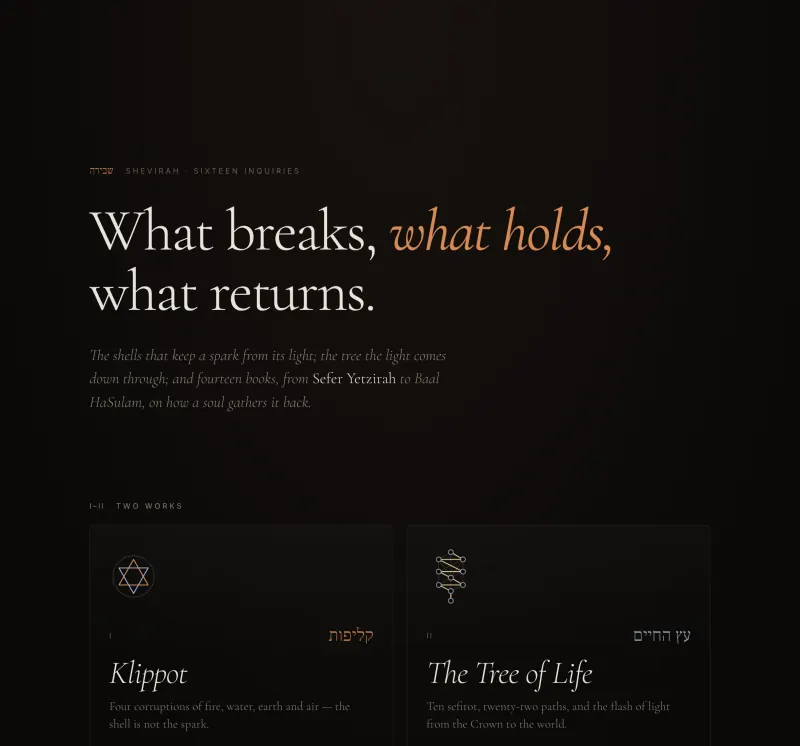
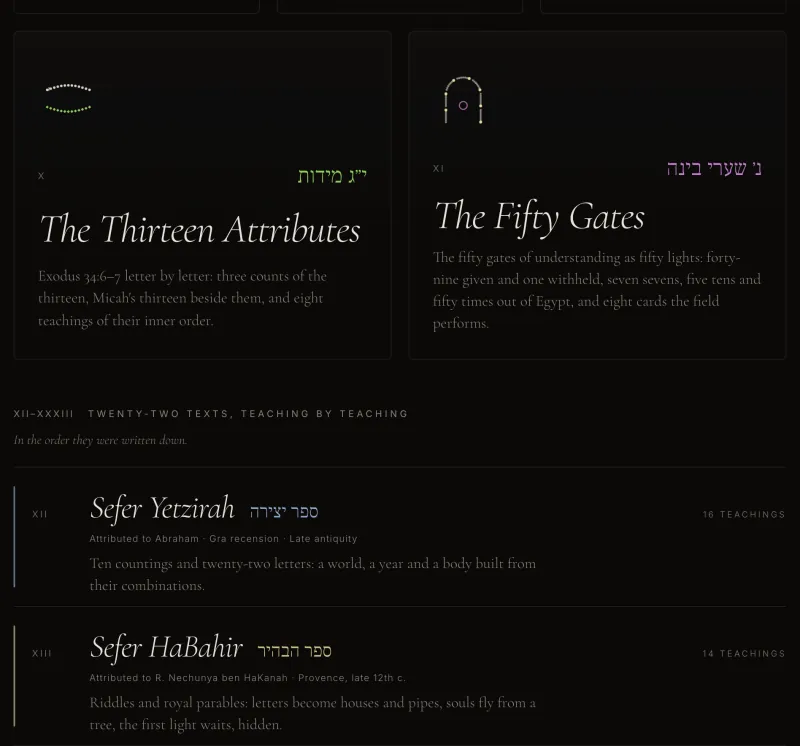
Shevirah: bring the showcase up to the 33-piece site (#41)
The section described the old two-work, fourteen-text Shevirah on
kelipot.vercel.app. It now matches the live site at
kelipot.quentin.software: eleven works and twenty-two texts (463 teaching
pages), The Four Shells and The Ten Sefirot under their new names, Next 16
and React 19 on Vercel rather than a static GitHub Pages export.

- Copy, JSON-LD (CreativeWork) and the llms.txt entry rewritten from
  shevirah's app/series.ts, README and the live sitemap.
- All six screenshots retaken from the live site: the hub (works and
  text shelf), The Four Shells, The Ten Sefirot, Taryag, the 231 Gates and
  a Sefat Emet teaching. Same sizes and WebP pair as before; the hub's
  height attribute now matches the file (1306).

diff --git a/pages/index.tsx b/pages/index.tsx
@@ -44,7 +44,7 @@ const NowPatterns = dynamic(() => import("@/components/Insights").then((m) => m.
 
 // ── SEO ───────────────────────────────────────────────────────────────────
 const SITE_URL = "https://moshemalka.com";
-const SHEVIRAH = "https://kelipot.vercel.app/";
+const SHEVIRAH = "https://kelipot.quentin.software/";
 
 const SEO = {
   title: "Moshe Malka — Founder & principal engineer, Quentin.Code",
@@ -149,10 +149,10 @@ const STRUCTURED_DATA = {
       "@type": "CreativeWork",
       "@id": `${SHEVIRAH}#work`,
       name: "Shevirah",
-      alternateName: "Shevirah — Sixteen Inquiries",
+      alternateName: "Shevirah — Thirty-three Inquiries",
       url: SHEVIRAH,
       description:
-        "An interactive web series on Kabbalah: two works, Klippot and the Tree of Life, and fourteen classic texts read teaching by teaching, each with its own animated artwork.",
+        "An interactive web series on Kabbalah: eleven works, among them The Four Shells, The Ten Sefirot and Taryag, each drawn on one canvas, and twenty-two classic texts read teaching by teaching, each teaching with its own animated artwork.",
       about: "Kabbalah",
       inLanguage: "en",
       author: { "@id": `${SITE_URL}/#person` },
@@ -467,42 +467,43 @@ function OpenSource() {
 
 /* ── Shevirah ──────────────────────────────────────────────────────── */
 
-// Screenshots from the live site, artworks engaged (hover state).
+// Screenshots from the live site (2026-11-13): each work with one light pinned
+// and its joins drawn; the text page with its artwork engaged (hover state).
 const SHEVIRAH_SHOTS = [
   {
-    src: "klippot",
-    path: "klippot/",
-    title: "Klippot",
-    caption: "Fire, the first of four corruptions",
-    alt: "Shevirah's Klippot page: a hand-drawn flame beside the line \u201cPassion, turned.\u201d",
+    src: "four-shells",
+    path: "klippot",
+    title: "The Four Shells",
+    caption: "The 288 sparks, held in four shells",
+    alt: "The Four Shells: 288 sparks in arcs inside four concentric shells, one spark pinned with its joins drawn and a panel giving its degree, letter and sefirah.",
   },
   {
-    src: "tree-of-life",
-    path: "tree-of-life/",
-    title: "The Tree of Life",
-    caption: "Ten sefirot on the Ari\u2019s twenty-two paths",
-    alt: "The Tree of Life: ten glowing spheres joined by lit paths on a starfield, with Descent, Ascent, Journey and Name controls.",
+    src: "ten-sefirot",
+    path: "tree-of-life",
+    title: "The Ten Sefirot",
+    caption: "Ten sefirot, Da\u2019at and twenty-two letters",
+    alt: "The Ten Sefirot: the tree of ten lights, Da\u2019at drawn as a ring and the letters on its paths, with Keter pinned and a panel of its sources.",
   },
   {
-    src: "tanya-small-city",
-    path: "tanya/the-small-city/",
-    title: "Tanya",
-    caption: "The Small City",
-    alt: "A Tanya teaching, The Small City: a walled city with a crown on either side, next to the paraphrased text.",
+    src: "taryag",
+    path: "mitzvot",
+    title: "Taryag: The 613",
+    caption: "248 limbs and 365 days",
+    alt: "Taryag: the 613 commandments as points, 248 in an inner disc and 365 in a ring around it, with the first commandment held and its connections listed.",
   },
   {
-    src: "etz-chaim-tzimtzum",
-    path: "etz-chaim/tzimtzum/",
-    title: "Etz Chaim",
-    caption: "The Withdrawal (tzimtzum)",
-    alt: "An Etz Chaim teaching, The Withdrawal: a dark circle opening in a field of light.",
+    src: "gates",
+    path: "gates",
+    title: "The 231 Gates",
+    caption: "Every pair of letters, on the wheel",
+    alt: "The 231 Gates: twenty-two Hebrew letters around a wheel with a gate at the middle of every chord, the gate alef-dalet pinned and the gates through each of its letters fanned out.",
   },
   {
-    src: "zohar-receive-to-bestow",
-    path: "hakdamat-hazohar/receive-to-bestow/",
-    title: "Introduction to the Zohar",
-    caption: "Receiving in Order to Give",
-    alt: "A teaching from Baal HaSulam\u2019s Introduction to the Zohar: a vessel below a point of light, joined by a dashed circle.",
+    src: "sefat-emet",
+    path: "sefat-emet/zion-in-every-thing",
+    title: "Sefat Emet",
+    caption: "Zion in Every Thing",
+    alt: "A Sefat Emet teaching, Zion in Every Thing: the reading bar and paraphrased text beside scattered shapes whose points of light are joined by fine lines.",
   },
 ] as const;
 
@@ -529,44 +530,43 @@ function Shevirah() {
         <h2 id="shevirah-h" className="c-h2">
           Shevirah
         </h2>
-        <p className="c-secmeta">16 pieces · 258 teachings, each with its own artwork</p>
+        <p className="c-secmeta">33 pieces · 463 teachings, each with its own artwork</p>
       </div>
       <p className="c-lede">
-        An interactive web series on Kabbalah, named for the breaking of the vessels. Two works,
-        Klippot and the Tree of Life, and fourteen texts from Sefer Yetzirah to Baal HaSulam, read
-        teaching by teaching.
+        An interactive web series on Kabbalah, named for the breaking of the vessels. Eleven works,
+        from The Four Shells and The Ten Sefirot to Taryag and the 231 Gates, and twenty-two texts
+        from Sefer Yetzirah to Baal HaSulam, read teaching by teaching.
       </p>
       <figure className="c-panel c-feature c-showcase">
         <div className="c-feature__copy">
           <p className="c-feature__name">How it&rsquo;s built</p>
           <ul className="c-studio__work c-showcase__notes">
             <li>
-              <span className="c-studio__client">Next.js, exported static</span>
+              <span className="c-studio__client">Next.js 16 and React 19, on Vercel</span>
               <span className="c-studio__what">
-                Served from GitHub Pages. No CSS framework and no UI library: hand-written CSS
-                and inline SVG.
+                Every page prerendered. No CSS framework and no UI library: hand-written CSS,
+                inline SVG and canvas.
               </span>
             </li>
             <li>
-              <span className="c-studio__client">Hand-drawn, animated SVG</span>
+              <span className="c-studio__client">Eleven works, one canvas each</span>
               <span className="c-studio__what">
-                Every artwork has a second state you reach by looking closer: hover, focus or
-                tap. Reduced motion gets a still frame that still reads.
+                Pin a light and its joins are drawn, to walk by pointer or keyboard. A Sod row acts
+                out teachings from the sources; an accessible list holds it all.
+              </span>
+            </li>
+            <li>
+              <span className="c-studio__client">Twenty-two texts, reading first</span>
+              <span className="c-studio__what">
+                Each teaching has its own animated SVG. A sticky bar keeps your place; progress
+                stays in your browser.
               </span>
             </li>
             <li>
               <span className="c-studio__client">Paraphrased from Sefaria</span>
               <span className="c-studio__what">
-                Each text credits the edition and license it was read from. Every Hebrew term
-                links to its page on Gamatria.
-              </span>
-            </li>
-            <li>
-              <span className="c-studio__client">The Ari&rsquo;s tree</span>
-              <span className="c-studio__what">
-                The Tree of Life places the letters on the Ari&rsquo;s paths, with
-                correspondences from the Gra&rsquo;s Sefer Yetzirah, and holds to WCAG 2.2 AA
-                contrast.
+                Each text credits the edition and license it was read from, and every count in
+                the works is computed in code. Every Hebrew term links to its page on Gamatria.
               </span>
             </li>
           </ul>
@@ -578,8 +578,8 @@ function Shevirah() {
           <Shot
             src="hub"
             w={1400}
-            h={1305}
-            alt="The Shevirah hub: \u201cWhat breaks, what holds, what returns.\u201d above tiles for Klippot and the Tree of Life."
+            h={1306}
+            alt="The Shevirah hub: the last tiles of the eleven works, The Thirteen Attributes and The Fifty Gates, above the shelf of twenty-two texts, each with its author, date and number of teachings."
           />
         </a>
       </figure>
